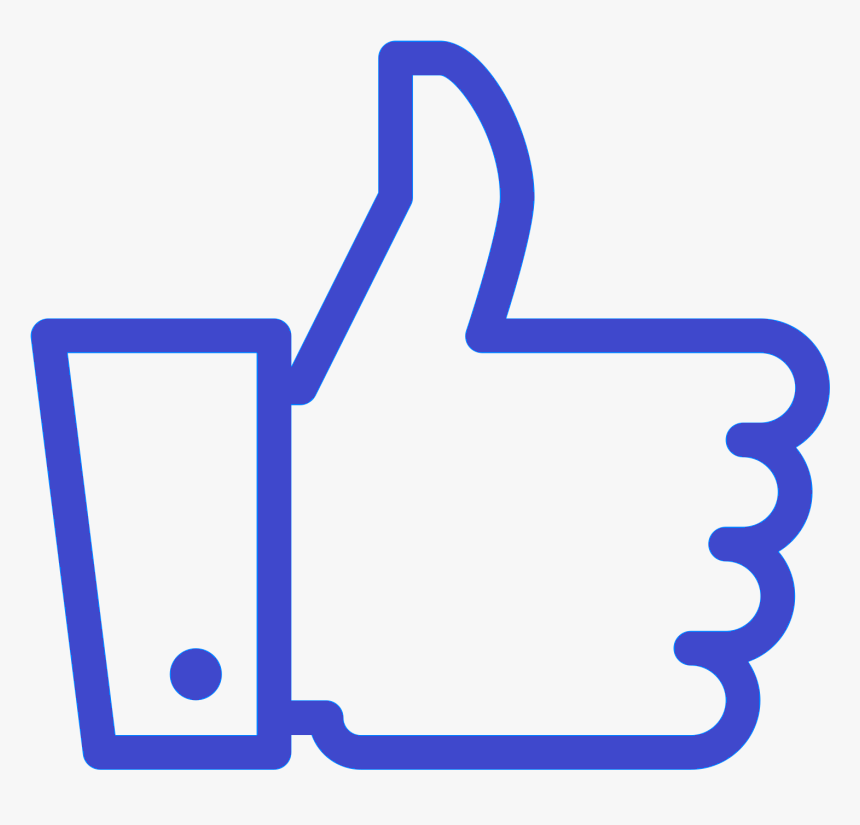
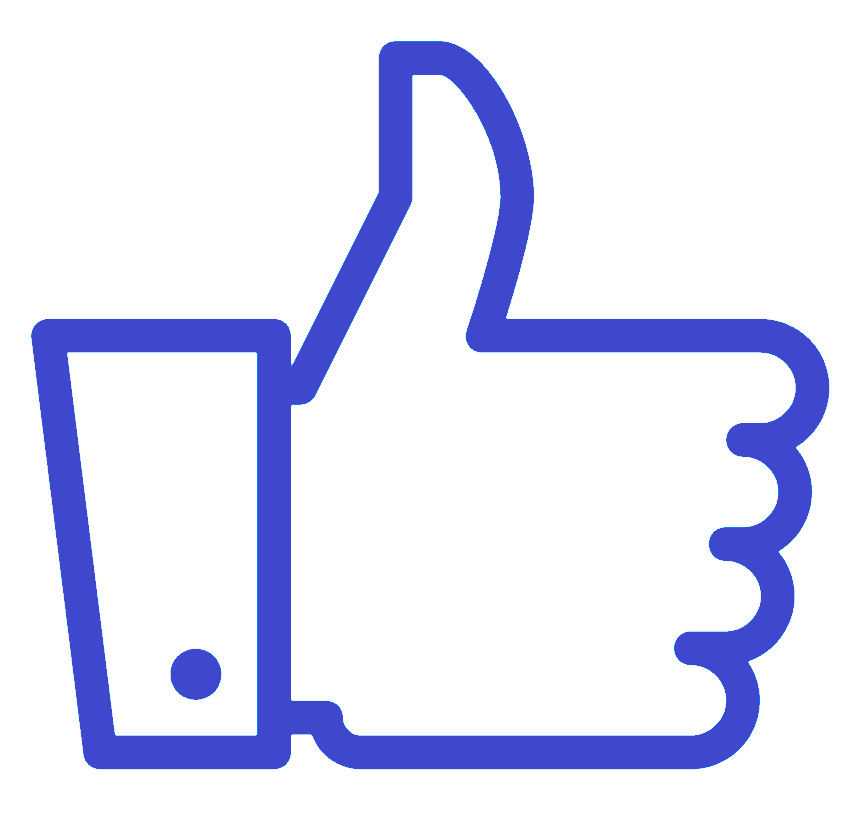
changed like button added comment button

Changed region(s): [[0.2721, 0.4242, 0.3023, 0.4545]]

diff --git a/static/blog/main.css b/static/blog/main.css
@@ -1,146 +1,151 @@
 body {
-    background: #fafafa;
-    color: #333333;
-    
-  }
-  
-  h1, h2, h3, h4, h5, h6 {
-    color: #444444;
-  }
-  
-  ul {
-    margin: 0;
-  }
-  
-  .bg-steel {
-    background-color: #5f788a;
-  }
-  
-  .site-header .navbar-nav .nav-link {
-    color: #cbd5db;
-  }
-  
-  .site-header .navbar-nav .nav-link:hover {
-    color: #ffffff;
-  }
-  
-  .site-header .navbar-nav .nav-link.active {
-    font-weight: 500;
-  }
-  
-  .content-section {
-    background: #ffffff;
-    padding: 10px 20px;
-    border: 1px solid #dddddd;
-    border-radius: 3px;
-    margin-bottom: 20px;
-  }
-  .comment-section {
-    background: #ffffff;
-    padding: 10px 20px;
-    border: 1px solid #dddddd;
-    border-radius: 3px;
-    margin-bottom: 20px;
-  }
-  
-  .article-title {
-    color: #444444;
-  }
-  
-  a.article-title:hover {
-    color: #428bca;
-    text-decoration: none;
-  }
-  
-  .article-content {
-    white-space: pre-line;
-  }
-  
-  .article-img {
-    height: 65px;
-    width: 65px;
-    margin-right: 16px;
-    margin-top: 25px;
-  }
-  
-  .article-metadata {
-    padding-bottom: 1px;
-    margin-bottom: 4px;
-    border-bottom: 1px solid #e3e3e3
-  }
-  
-  .article-metadata a:hover {
-    color: #333;
-    text-decoration: none;
-  }
-  
-  .article-svg {
-    width: 25px;
-    height: 25px;
-    vertical-align: middle;
-  }
-  
-  .account-img {
-    height: 125px;
-    width: 125px;
-    margin-right: 20px;
-    margin-bottom: 16px;
-  }
-  
-  .account-heading {
-    font-size: 2.5rem;
-  }
+  background: #fafafa;
+  color: #333333;
+}
 
-  .more {
-    /* cursor: pointer; */
-    border: none;
-    background: transparent;
-  }
-  
-  .more span {
-    display: block;
-    width: .25rem;
-    height: .25rem;
-    background: #363636;
-    border-radius: 50%;
-    pointer-events: none;
-  }
-  
-  .more span:not(:last-child) {
-    margin-bottom: .125rem;
-  }
-  
-  .dropout {
-    float: right;
-    z-index: 9001;
-    width: fit-content;
-    position: relative;
-    margin-left: auto;
-    margin-right: auto;
-  }
-  
-  .dropout ul {
-    position: absolute;
-    float: left;
-    background: #f8f5f5;
-    border-radius: 2%;
-    border: rgb(32, 8, 8);
-    top: -0.5rem;
-    right: 1.5rem;
-    transform: scaleX(0);
-    transform-origin: right;
-    transition: transform 0.12s ease;
-    width: max-content;
-  }
-  
-  .dropout.active ul {
-    transform: scaleX(1);
-  }
-  .option{
-    padding: 15px;
-    border: 3px solid #272626;
-  }
-  .comment-form{width: 100%;
+h1,
+h2,
+h3,
+h4,
+h5,
+h6 {
+  color: #444444;
+}
+
+ul {
+  margin: 0;
+}
+
+.bg-steel {
+  background-color: #5f788a;
+}
+
+.site-header .navbar-nav .nav-link {
+  color: #cbd5db;
+}
+
+.site-header .navbar-nav .nav-link:hover {
+  color: #ffffff;
+}
+
+.site-header .navbar-nav .nav-link.active {
+  font-weight: 500;
+}
+
+.content-section {
+  background: #ffffff;
+  padding: 10px 20px;
+  border: 1px solid #dddddd;
+  border-radius: 3px;
+  margin-bottom: 20px;
+}
+.comment-section {
+  background: #ffffff;
+  padding: 10px 20px;
+  border: 1px solid #dddddd;
+  border-radius: 3px;
+  margin-bottom: 20px;
+}
+
+.article-title {
+  color: #444444;
+}
+
+a.article-title:hover {
+  color: #428bca;
+  text-decoration: none;
+}
+
+.article-content {
+  white-space: pre-line;
+}
+
+.article-img {
+  height: 65px;
+  width: 65px;
+  margin-right: 16px;
+  margin-top: 25px;
+}
+
+.article-metadata {
+  padding-bottom: 1px;
+  margin-bottom: 4px;
+  border-bottom: 1px solid #e3e3e3;
+}
+
+.article-metadata a:hover {
+  color: #333;
+  text-decoration: none;
+}
+
+.article-svg {
+  width: 25px;
+  height: 25px;
+  vertical-align: middle;
+}
+
+.account-img {
+  height: 125px;
+  width: 125px;
+  margin-right: 20px;
+  margin-bottom: 16px;
+}
+
+.account-heading {
+  font-size: 2.5rem;
+}
+
+.more {
+  /* cursor: pointer; */
+  border: none;
+  background: transparent;
+}
+
+.more span {
+  display: block;
+  width: 0.25rem;
+  height: 0.25rem;
+  background: #363636;
+  border-radius: 50%;
+  pointer-events: none;
+}
+
+.more span:not(:last-child) {
+  margin-bottom: 0.125rem;
+}
+
+.dropout {
+  float: right;
+  z-index: 9001;
+  width: fit-content;
+  position: relative;
+  margin-left: auto;
+  margin-right: auto;
+}
+
+.dropout ul {
+  position: absolute;
+  float: left;
+  background: #f8f5f5;
+  border-radius: 2%;
+  border: rgb(32, 8, 8);
+  top: -0.5rem;
+  right: 1.5rem;
+  transform: scaleX(0);
+  transform-origin: right;
+  transition: transform 0.12s ease;
+  width: max-content;
+}
+
+.dropout.active ul {
+  transform: scaleX(1);
+}
+.option {
+  padding: 15px;
+  border: 3px solid #272626;
+}
+.comment-form {
+  width: 100%;
   height: 10%;
   padding: 12px 20px;
   box-sizing: border-box;
@@ -149,4 +154,12 @@ body {
   background-color: #ffffff;
   font-size: 16px;
   resize: none;
+}
+.like-button {
+  background-color: transparent;
+  background-repeat: no-repeat;
+  border: none;
+  cursor: pointer;
+  overflow: hidden;
+  outline: none;
 }

diff --git a/templates/blog/post_detail.html b/templates/blog/post_detail.html
@@ -35,16 +35,21 @@
         <h2 class="article-title">{{ post.title }}</h2>
         <p class="article-content">{{ post.content }}</p>
         <div>
+            <div style="float: left;padding-right: 20px;">
             <form action="{% url 'like_post' post.pk %}" method="POST">
-                {% csrf_token %}
-                {% if request.user.is_authenticated %}
-                <button type="submit" name="post_id" value="{{ post.id }}" class="btn btn-primary btn-sm">Like</button>
-                {% else %}
-                <a href="{% url 'login' %}" class="btn btn-primary btn-sm">Like</a>
-                {% endif %}
-                <span> {{ post.likes.count }} like(s)</span>
+              {% csrf_token %}
+              {% if request.user.is_authenticated %}
+              <button type="submit" name="post_id" value="{{ post.id }}" class="like-button"><img height="35px" width="40px" src="/media/like/like.png"></button>
+              {% else %}
+              <a href="{% url 'login' %}" class="like-button"><img height="35px" width="40px" src="/media/like/like.png"></a>
+              {% endif %}
+              <span> {{ post.likes.count }} like(s)</span>
             </form>
-        </div>
+          </div>
+            <div style="float: left;">
+              <a class="article-title" href="{% url 'post-detail' post.id %}"><img height="32px" width="37px" style="margin-right: 10px;" src="/media/comment.png">Comment</a>
+            </div>
+          </div>
     </div>
 </article>
 <form id="usrform" method="POST">

diff --git a/templates/blog/home.html b/templates/blog/home.html
@@ -34,17 +34,22 @@
       </td>
     </div>
     <h2><a class="article-title" href="{% url 'post-detail' post.id %}">{{ post.title }}</a></h2>
-    <p class="article-content">{{ post.content }}
+    <p class="article-content">{{ post.content }}>
     <div>
+      <div style="float: left;padding-right: 20px;">
       <form action="{% url 'like_post' post.pk %}" method="POST">
         {% csrf_token %}
         {% if request.user.is_authenticated %}
-        <button type="submit" name="post_id" value="{{ post.id }}" class="btn btn-primary btn-sm">Like</button>
+        <button type="submit" name="post_id" value="{{ post.id }}" class="like-button"><img height="35px" width="40px" src="../media/like/like.png"></button>
         {% else %}
-        <a href="{% url 'login' %}" class="btn btn-primary btn-sm">Like</a>
+        <a href="{% url 'login' %}" class="like-button"><img height="35px" width="40px" src="../media/like/like.png"></a>
         {% endif %}
         <span> {{ post.likes.count }} like(s)</span>
       </form>
+    </div>
+      <div style="float: left;">
+        <a class="article-title" href="{% url 'post-detail' post.id %}"><img height="32px" width="37px" style="margin-right: 10px;" src="../media/comment.png">Comment</a>
+      </div>
     </div>
     </p>
   </div>
